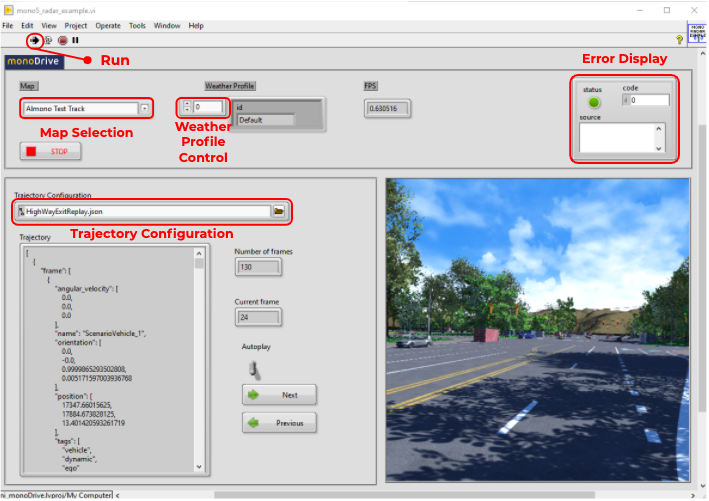
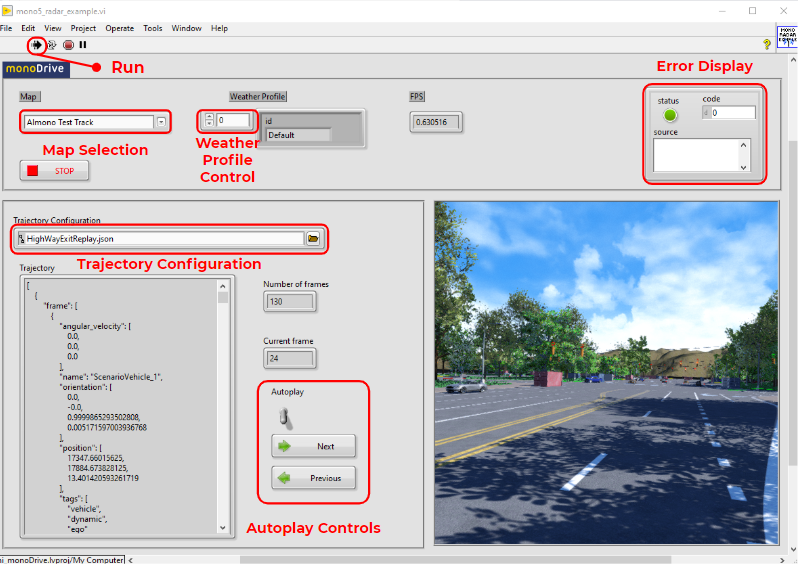
updated, experimental still needs a little work

diff --git a/docs/LV_client/quick_start/LabVIEW_run_examples.md b/docs/LV_client/quick_start/LabVIEW_run_examples.md
@@ -29,7 +29,7 @@ Prior to running the example, the user will be able to:
 * **Select a different vehicle start position** using the Start Position Control. Each of monoDrive's
 maps are built with starting position. The number in this box corresponds with the number on the map display in the bottom right corner of the VI window.
 
-* **For modifications** to this example, use the closed_loop.json file which can be found in the installation directory under: 
+* **For modifications** to this example, use the pilot_example.json file which can be found in the installation directory under: 
 
     `C:\Program Files\National Instruments\LabVIEW 2019\vi.lib\monoDrive\monoDriveClient\labview\scenarios`
 
@@ -68,7 +68,7 @@ Prior to running the example, the user will be able to:
 
 * **Select the map** by using the Map Selection Drop-Down. When running, the monoDrive simulator will switch to this map prior to beginning the simulation.
 
-* **For modifications** to this example, use the closed_loop.json file which can be found in the installation directory under: 
+* **For modifications** to this example, use the scenario_config_multi_vehicle.json file which can be found in the installation directory under: 
 
     `C:\Program Files\National Instruments\LabVIEW 2019\vi.lib\monoDrive\monoDriveClient\labview\scenarios`
 
@@ -93,9 +93,7 @@ to the vehicle and will stop the vehicle.
 
 ### Replay Example
 
-The Replay Example, *mono_replay_example.vi*, enables users to select a 
-monoDrive Trajectory File and play it back in simulation. Many of the controls 
-and dialogs are similar to those in the Closed Loop Example. 
+The Replay Example, *mono_replay_example.vi*, enables users to select and run a monoDrive Trajectory File from beginning to the end. This example does not have the ability to stop at certain point, but is available in the Radar Example. Many of the controls and dialogs are similar to those in the Pilot and Scenario Example. 
 
 <div class="img_container">
     <img class="wide_img" src="../imgs/mono3_image.png" />
@@ -122,8 +120,7 @@ To run the example, **Click on the "Run" arrow on the top-left corner to start t
 
 ### HIL Example
 
-The HIL (Hardware-in-the-loop) Example, *mono4_hil_example.vi*, is very similar
-to the Replay Example, except during the replay, it enables users to control the "ego" vehicle. All vehicles will be positioned in provided time steps in the simulation. To trigger the movement, users will need to provide specific direct hardware inputs or software in order to move the ego vehicle. The "EGO Pose Controls" are provided as an example and intended to be replaced by the user's own code.
+The HIL (Hardware-in-the-loop) Example, *mono4_hil_example.vi*, enables users to control the "ego" vehicle. All vehicles will be positioned in provided time steps in the simulation. To trigger the movement, users will need to provide specific direct hardware inputs or software in order to move the ego vehicle. The "EGO Pose Controls" are provided as an example and intended to be replaced by the user's own code.
 
 <div class="img_container">
     <img class="wide_img" src="../imgs/mono4_image.png" />
@@ -139,11 +136,11 @@ Prior to running the example, the user will be able to:
 Successfully connecting the client, this trajectory will be sent to the simulator and immediately begin playing. To change the trajectory file, click the 
 "Browse" button the right-hand side of the dialog. Pre-configured trajectories 
 can be found in the installation directory under: 
+
 `C:\Program Files\National Instruments\LabVIEW 2019\vi.lib\monoDrive\monoDriveClient\labview\trajectories`
 
-* **Control the EGO vehicle position with the EGO Pose Controls.** The changes 
-made to this control will immediately take effect on the EGO position and 
-kinematics.
+* **Control the EGO vehicle position** with the EGO Pose Controls. The changes 
+will immediately take effect on the EGO position and kinematics.
 
 **Configuration information:** [mono4_hil_example.vi](../../examples/mono4_hil_example)
 
@@ -151,56 +148,88 @@ kinematics.
 
 ### Radar Example
 
-Description
+The Radar Example, *mono5_radar_example.vi*, enables users to select and run a monoDrive Trajectory File from beginning to the end. The difference between Radar Example and Replay Example, is that this example has the ability to stop at any point during the simulation so that a user may observe or modify the simulation more easily. This is especially helpful when testing a radar sensor.
 
 <div class="img_container">
     <img class="wide_img" src="../imgs/mono5_image.png" />
 </div>
 
-Instructions
+Prior to running the example, the user will be able to:
 
-### Pilot Example with Fixed Time Example
+* **Select and change the weather profile** by changing the Weather Profile Control. There are various permutations of weather available in the monoDrive Simulator. 
 
-Description
+* **Select the map** by using the Map Selection Drop-Down. When running, the monoDrive simulator will switch to this map prior to beginning the simulation.
+
+* **Select the trajectory file** by using the Trajectory File Selection dialog. 
+Successfully connecting the client, this trajectory will be sent to the simulator and immediately begin playing. To change the trajectory file, click the 
+"Browse" button the right-hand side of the dialog. Pre-configured trajectories 
+can be found in the installation directory under: 
+
+`C:\Program Files\National Instruments\LabVIEW 2019\vi.lib\monoDrive\monoDriveClient\labview\trajectories`
+
+To run the example, **Click on the "Run" arrow on the top-left corner to start the client.** The playback will begin and the current trajectory steps will be shown in the "Current trajectory" indicator.
+
+To stop the simulation at a specific point or to go through the scenario frame-by-frame, **use the Autoplay Toggle**. When this toggle is on, the trajectory will be advanced through the simulation without stopping like the Replay Example. When switched off the simulation will stop, use the "Next" button or the "Previous" button to control the frame.
+
+* **"Next" button** will advance the simulation forward one step towards the end of the trajectory file.
+
+* **"Previous" button** will return to the previous step towards the beginning of the trajectory file.
+
+**Configuration information:** [mono5_radar_example.vi](../../examples/mono5_radar_example)
+
+<p>&nbsp;</p>
+
+### Pilot Example with Fixed Time
+
+The Pilot Example with fixed time, *mono6_pilot_example_fixed.vi*, enables users to control the vehicle's steering, throttle, brakes, starting position, and weather simulation with fixed time frames. 
+
 
 <div class="img_container">
     <img class="wide_img" src="../imgs/mono6_image.png" />
 </div>
 
-Instructions
+Prior to running the example, the user will be able to:
 
-### Replay with All Sensors Example
+* **Select and change the weather profile** by changing the Weather Profile Control. There are various permutations of weather available in the monoDrive Simulator. 
 
-Description
+* **Select the map** by using the Map Selection Drop-Down. When running, the monoDrive simulator will switch to this map prior to beginning the simulation.
 
-<div class="img_container">
-    <img class="wide_img" src="" />
-</div>
+* **Select a different vehicle start position** using the Start Position Control. Each of monoDrive's
+maps are built with starting position. The number in this box corresponds with the number on the map display in the bottom right corner of the VI window.
 
-Instructions
+* **For modifications** to this example, use the pilot_example.json file which can be found in the installation directory under: 
+
+    `C:\Program Files\National Instruments\LabVIEW 2019\vi.lib\monoDrive\monoDriveClient\labview\scenarios`
+
+To run the example, **Click on the "Run" arrow on the top-left corner to start the client.** This will connect the client to the simulator. Errors during the connection will appear in the "Error" dialog on the right. Once connected, the following actions are available through the GUI:
+
+* **Move the car** using the Throttle Slider. This control shows the percentage of 
+the throttle the vehicle will be using.
+
+* **Change the direction** using Direction Control. Switch 
+between moving the vehicle forward or reverse.
+
+* **Steer the vehicle** with the Steering Control. This controls the angle of 
+turning.
+
+* **Apply brakes** using the Brake control. This will apply 100% of the brakes 
+to the vehicle and will stop the vehicle.
+
+**Configuration information:** [mono6_pilot_example_fixed.vi](../../examples/mono6_pilot_example_fixed)
+
+<p>&nbsp;</p>
+
+
+## Experimental Examples
+
+These example is currently in the *experimental* stage and can be found at:
+`C:\Program Files\National Instruments\LabVIEW 2019\vi.lib\monoDrive\monoDriveClient\labview\experimental\`
+
+Follow the `README.md` located in the `experimental` folder prior to running these examples in order to compile and install the necessary DLLs.
 
 ### Multi-Vehicle Pose Update Example
 
-Description
-
-<div class="img_container">
-    <img class="wide_img" src="" />
-</div>
-
-Instructions
-
-
-
-
-
-
-
-
-
-### Multi Vehicle Pose Update Example
-
-Similar to the Replay Example, the Mutli-Vehicle Pose Update Example 
-(`mono_multi_vehilce_pose_update_example.vi`) plays back a replay when connected 
+Similar to the Replay Example, the Multi-Vehicle Pose Update Example, mono_multi_vehicle_pose_update_example.vi, plays back a replay when connected 
 to the simulator. Additionally, it allows the user to change the values in
 the trajectory file for every vehicle in scene.
 
@@ -226,68 +255,6 @@ selected prior to running the client. To run the example, **Click on the "Run"
 arrow on the top-left corner to start the client.** The playback will begin by
 executing the first frame of the modified trajectory.
 
-
-
-
-### Replay Example
-
-The Replay Example (`mono_replay_example.vi`) allows a user to select a 
-monoDrive Trajectory File and play it back in simulation. Many of the controls 
-and dialogs are similar to the the Closed Loop Example. 
-
-<div class="img_container">
-    <img class='wide_img' src="../imgs/replay_example.png"/>
-</div>
-
-Prior to running this example, the user can: 
-
-* **Select the trajectory file by using the Trajectory File Selection dialog.** 
-This trajectory will be sent to the simulator and immediately begin playing on 
-successfully connecting the client. To change the trajectory file, click the 
-"Browse" button the right-hand side of the dialog. Pre-configured trajectories 
-can be found in the installation directory under: 
-`C:\Program Files\National Instruments\LabVIEW 2019\vi.lib\monoDrive\monoDriveClient\labview\trajectories`
-
-To run the example, **Click on the "Run" arrow on the top-left corner 
-to start the client.** The playback will begin and the current trajectory steps
-will be shown in the "Current trajectory" indicator.
-
-### Replay Controls
-
-The Replay Controls Example (`mono_replay_controls_example.vi`) adds extra
-controls to the the Replay Example. This example demonstrates how the replay
-of a monoDrive Simulator trajectory file can be stepped forward and backward
-so the user may observe or modify the simulation during replay more easily.
-
-<div class="img_container">
-    <img class='wide_img' src="../imgs/replay_controls.png"/>
-</div>
-
-Similar to the Replay Example, ensure the map and trajectory file are properly 
-selected prior to running the client. To run the example, **Click on the "Run" 
-arrow on the top-left corner to start the client.** The playback will begin by
-executing the first frame of the trajectory. The user can now:
-
-* **Click the "Next" button in the Replay Step Controls.** This will advance the 
-simulation by one step forward until the end of the trajectory file.
-
-* **Click the "Previous" button in the Replay Step Controls.** This will go to
-the previous step in the simulation until the beginning of trajectory file.
-
-* **Click the Autoplay Toggle on (up) or off (down).** When this toggle is on, 
-the trajectory will be advanced forward in time until the end of the trajectory 
-file or until the toggle is turned off.
-
-
-
-## Experimental Examples
-
-These example is currently in the *experimental* stage and can be found here:
-`C:\Program Files\National Instruments\LabVIEW 2019\vi.lib\monoDrive\monoDriveClient\labview\experimental\`
-
-You will need to follow the `README.md` located in the `expermintal` folder 
-prior to running these examples in order to compile and install the necessary 
-DLLs.
 
 ### Lane Follower Example 
 
@@ -319,8 +286,8 @@ to the vehicle and stop it.
 
 ### Radar with Kalman Filter Example 
 
-The Radar with Kalman Filtering Example 
-(`mono_radar_with_kalman_filter_cpp_dll.vi`) demonstrates the use of a Kalman 
+The Radar with Kalman Filtering Example, mono_radar_with_kalman_filter_cpp_dll.vi, demonstrates the use of a Kalman.
+
 Filter to apply the EGO vehicle's brakes during an Automatic Emergency Braking 
 (AEB) scenario. This example is intended to be used with the monoDrive 
 Simulator's "Highway Track" map and the "Car-to-Car-Rear-Stationary.json" 
